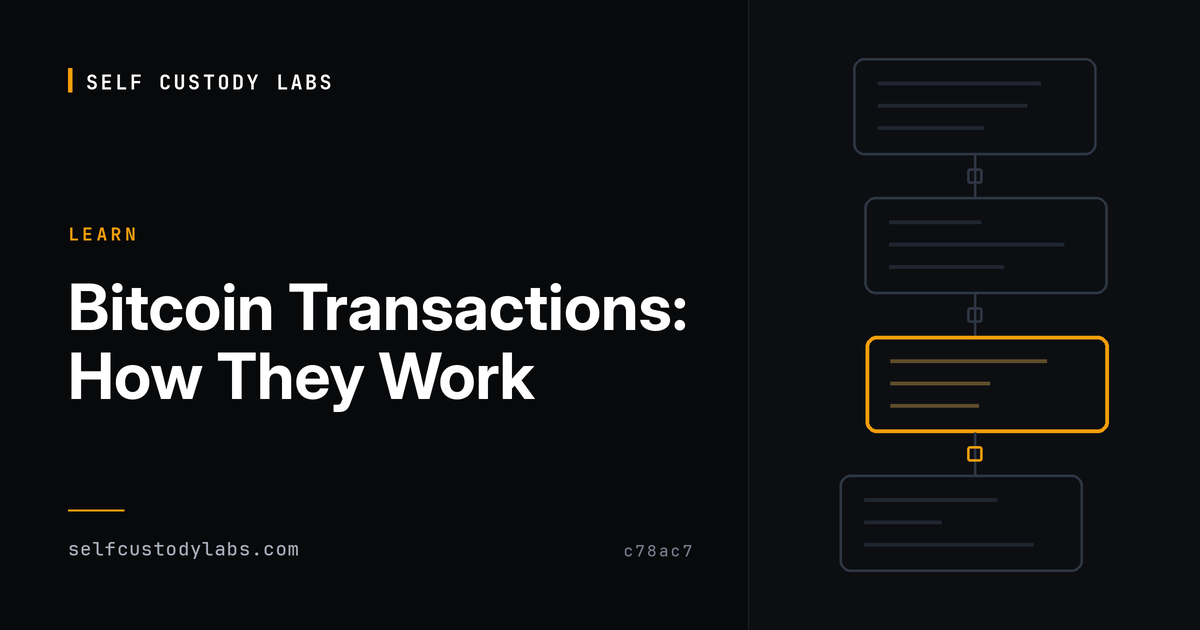
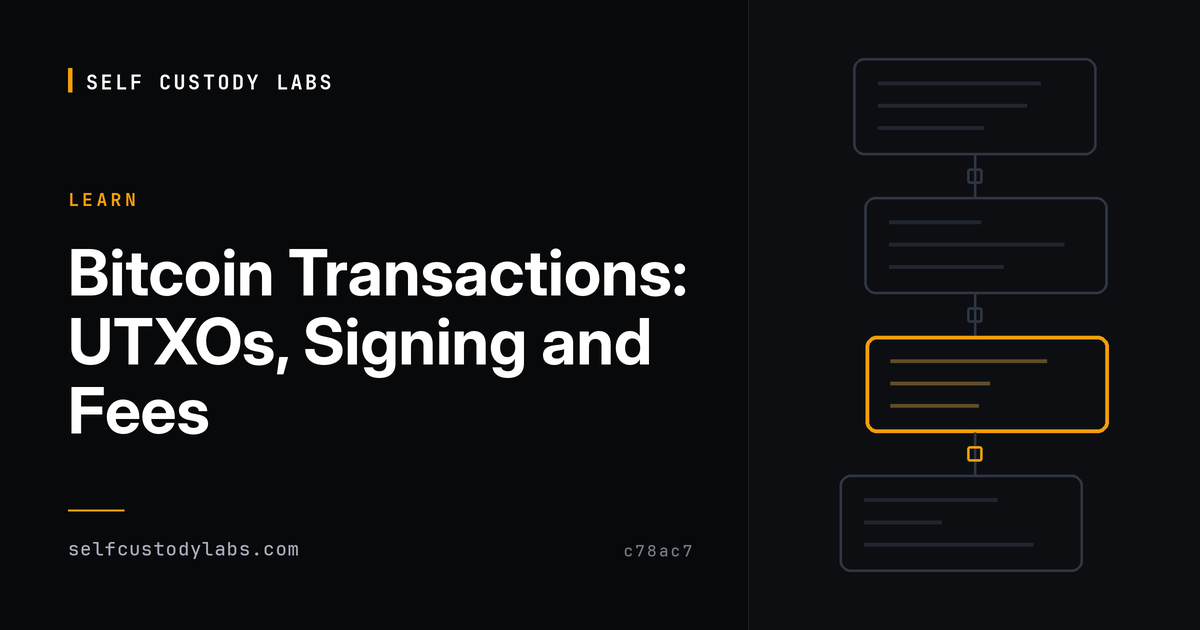
gave the transactions overview a title distinct from the how-transactions-work page

Changed region(s): [[0.0617, 0.3619, 0.5858, 0.6937], [0.0617, 0.3016, 0.1233, 0.3317]]

diff --git a/docs/learn/transactions/index.md b/docs/learn/transactions/index.md
@@ -1,7 +1,7 @@
 ---
 sidebar_position: 0
 sidebar_label: "Overview"
-title: "Bitcoin Transactions: How They Work"
+title: "Bitcoin Transactions: UTXOs, Signing and Fees"
 description: "How Bitcoin transactions work end to end: UTXOs, transaction creation, signing, broadcasting, fees, and the transaction types you will actually encounter."
 keywords: ["bitcoin transactions", "utxo", "psbt", "signing", "broadcasting", "fees", "self custody"]
 tags: ["transactions", "bitcoin", "self custody"]
